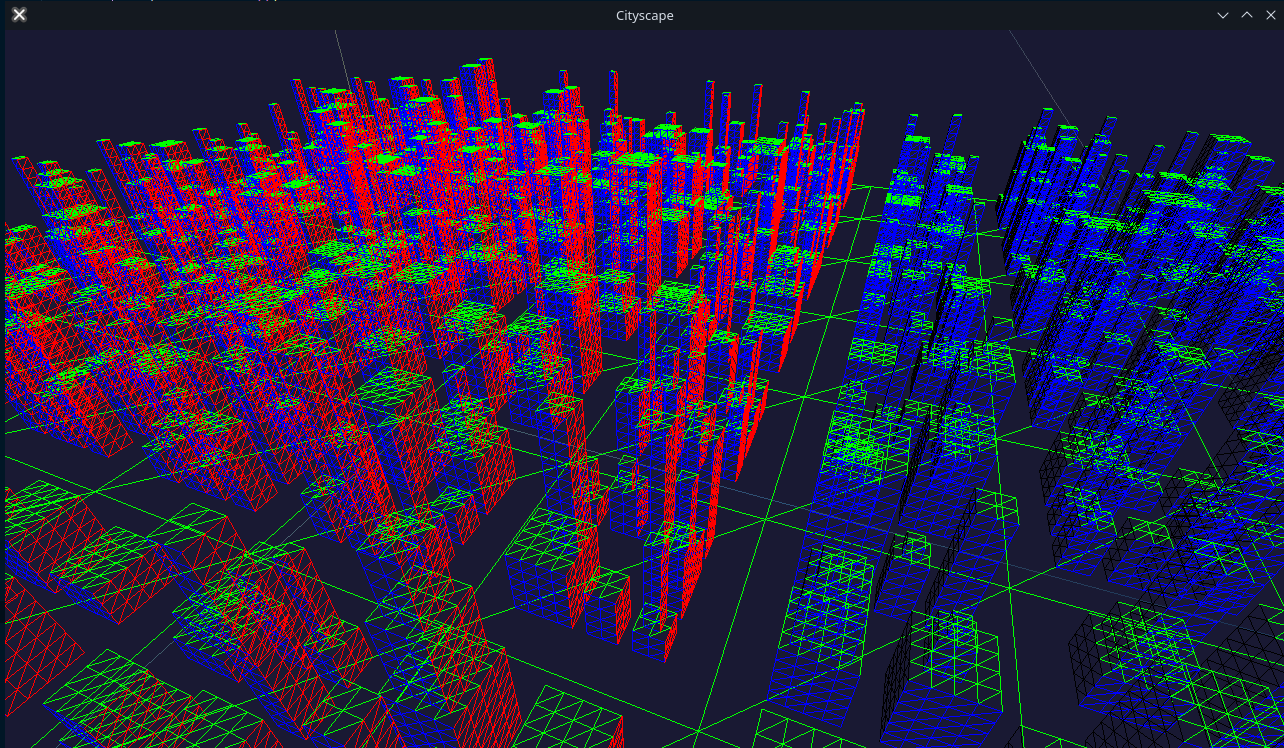
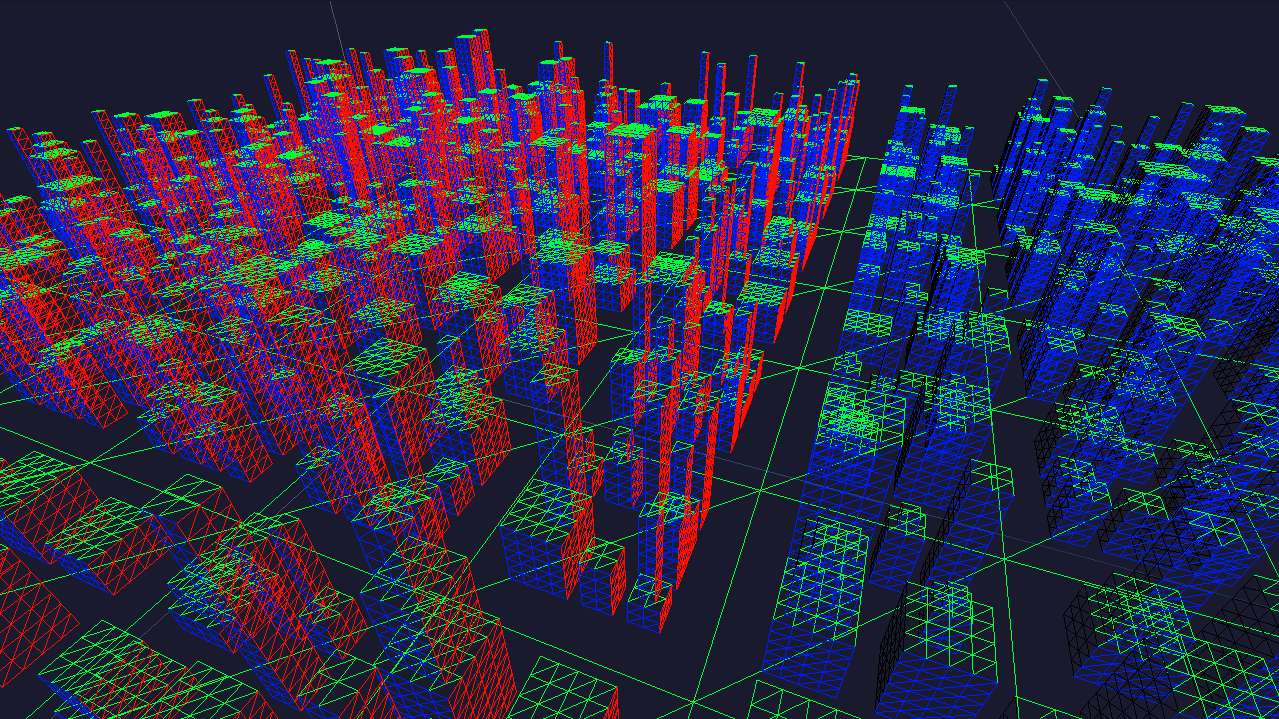
huge readme update + new textures / spec maps

diff --git a/phi/camera.hpp b/phi/camera.hpp
@@ -38,6 +38,8 @@ namespace Phi
 
             // Needs to be public so caller can tell the camera when the window size changes
             void UpdateViewport(int width, int height);
+            void UpdateView();
+            void UpdateProjection();
 
             // Updates the Uniform Buffer Object associated with this camera
             void UpdateUBO();
@@ -49,6 +51,9 @@ namespace Phi
             inline int GetWidth() const { return width; };
             inline int GetHeight() const { return height; };
             inline GPUBuffer& GetUBO() { return ubo; };
+
+            // Public so ImGUI may directly control camera properties
+            float fov = 60;
 
         private:
         
@@ -67,7 +72,6 @@ namespace Phi
             // View properties (Sensible defaults)
             int width = 0;
             int height = 0;
-            float fov = 60;
             float aspect = 1;
             float near = 0.1;
             float far = 1000;
@@ -78,10 +82,6 @@ namespace Phi
 
             // OpenGL resources
             GPUBuffer ubo;
-
-            // Helper methods for updating matrices
-            void UpdateView();
-            void UpdateProjection();
 
             // Constants
             static const int UBO_SIZE = sizeof(glm::mat4) * 3 + sizeof(glm::vec4) * 2;

diff --git a/src/cityscape.cpp b/src/cityscape.cpp
@@ -223,6 +223,7 @@ void Cityscape::Update(float delta)
         if (ImGui::Checkbox("Vsync", &vsync)) glfwSwapInterval(vsync);
         ImGui::Checkbox("Shadows (experimental)", &shadows);
         ImGui::SliderInt("View Distance", &renderDistance, 1, 10, "%d", ImGuiSliderFlags_AlwaysClamp);
+        if (ImGui::SliderFloat("FOV", &mainCamera.fov, 1.0f, 120.0f, "%.2f", ImGuiSliderFlags_AlwaysClamp)) mainCamera.UpdateProjection();
 
         ImGui::End();
 
@@ -234,7 +235,7 @@ void Cityscape::Update(float delta)
 
         ImGui::Checkbox("Automatic Lights", &automaticLights);
         ImGui::Checkbox("Lights Override", &lightsAlwaysOn);
-        ImGui::Checkbox("Party Mode", &partyMode);
+        if (ImGui::Checkbox("Party Mode", &partyMode)) lightsAlwaysOn = partyMode;
         if (ImGui::Checkbox("Festive Colors", &festiveMode))
         {
             // Regenerate all light colors if mode is toggled

diff --git a/README.md b/README.md
@@ -2,6 +2,8 @@
 
 ### D'Anyil Landry
 
+![new_buildings.png](https://github.com/Chestnut45/cityscape/blob/main/new_buildings.png)
+
 ## Prerequisites
 
 - C/C++ Tools VSCode extension
@@ -46,7 +48,7 @@ All of the cityscape source files, including the main.cpp entrypoint and all non
 
 ### phi:
 
-Phi is the micro-engine I've put together for this assignment. I wrote every line, except for the App class, which is basically just an adlib of the W_App class from wolf, but with support for other OpenGL context versions and some basic performance monitoring. It has a few RAII wrapper classes for OpenGL resources (buffer objects, textures, etc.), and a small number of more complex resources like a renderable mesh class and a basic camera. It's by no means complete, but it's a great starting point for my personal projects and I can add more features to it as I encounter the need for them.
+Phi is the micro-engine I put together for this assignment. I wrote it from scratch, except for the App class, which is basically just an adlibbed copy of the W_App class from wolf, but with support for other OpenGL context versions and some basic performance monitoring. It has a few RAII wrapper classes for OpenGL resources (buffer objects, textures, etc.), and a small number of more complex resources like a mesh/model class and a render batch class. It's by no means complete, but it's a great starting point for my personal projects and I can add more features to it as I encounter the need for them :)
 
 ## Extras Chosen:
 
@@ -56,21 +58,25 @@ Roads are just painted onto each ground tile texture. Nothing crazy.
 
 ### Lighting:
 
-Traditional deferred rendering is used due to the large number of lights in the scene.
-
-Light volume proxy geometry is used to only generate fragments for pixels that will actually be affected by each light.
-
-I considered implementing tiled deferred or clustered deferred shading to remove all of the unnecessary extra gBuffer reads per fragment, but it proved too difficult in the timeframe available.
+Traditional deferred rendering is used due to the large number of lights in the scene. I considered implementing tiled deferred or clustered deferred shading to remove all of the extra gBuffer reads per fragment, but it seemed not worth the cost in time to develop.
 
 There are 2 main directional lights (sun + moon), and ~400 point lights (at the default render distance), when the streetlights are on.
 
 Both directional lights and point lights are using the Blinn-Phong model (with the adjusted half way vector).
 
-### Building Shapes:
+Global lighting is run on every fragment generated by a single fullscreen triangle during the global pass, and for point lights, light volume proxy geometry is used to only generate fragments for pixels that will actually be affected by each light.
 
-Each building is generated story by story, face by face. Texture offsets into the building texture atlas are procedurally generated for each face based on constructor arguments and rng, and extra features like awnings and balconies are placed per-face based on what type (window, door, etc.) of face is being generated.
+### Building Generation:
 
-The buildings are drawn using the Phi::RenderBatch class that groups together meshes of matching vertex formats into a single draw call.
+Each building is generated story by story, face by face.
+
+![wireframe_normals.png](https://github.com/Chestnut45/cityscape/blob/main/wireframe_normals.png)
+
+Texture offsets into the building texture atlas are procedurally generated for each face based on variant and wall type arguments, and extra features like awnings are placed per-face based on what type (window, door, etc.) of face is being generated.
+
+A specular map is baked into the alpha channel of the buildingAtlas.png file, so only surfaces that should be shiny are.
+
+The buildings are drawn using the Phi::RenderBatch class to group together meshes of matching vertex formats into a single draw call.
 
 ## Other Considerations:
 
@@ -86,20 +92,16 @@ The sky's skybox colors are blended with both main directional light colors by t
 
 On December 4th, there was a really cool looking snowstorm, and it inspired me to add snow to the cityscape.
 
-- Snow accumulation/melting will only update if `Time Advance` is checked.
-- Snow will only accumulate if `Snow` is also checked
+- Snow will only accumulate if `Snow` is checked
 - Snow will accumulate faster based on the `Intensity` value for the storm.
 - Snow will melt 2x faster during the day.
+- Snow accumulation/melting will only update if `Time Advance` is checked.
 - The snow particle effect consists of 20,000 particles each rasterized as a GL_POINT with a random size.
 - The particles are updated entirely on the GPU, all the CPU does is calculate initial positions once on program startup, and issue a single draw call once per frame.
 
-Immediately after calculating the position offset due to wind and assigning a value to gl_Position and gl_PointSize, the vertex shader applies a constant velocity downward (since snow has a relatively low terminal velocity), and wraps each particle's position back up to the top of the "effect box" that surrounds the camera. After all vertex shader outputs have finished, we simply write back the updated particle position to the same location of the same buffer by binding the buffer object to an indexed SSBO binding point that is accessible to the vertex shader.
+![snowy_night.png](https://github.com/Chestnut45/cityscape/blob/main/snowy_night.png)
 
-Since each snowflake is rendered to the geometry buffer, they will also automatically have the entire scene's lighting applied to them (including shadows!). This is achieved by the vertex shader generating normals for each snowflake that are based on the same noise values used to generate the wind offsets. You should be able to see the effect of this by standing close to the street lights, where some snowflakes may reflect the light from the street light not closest to them. Rationale for this behaviour is that snowflakes would be rotating due to the wind, so the specular reflections could be from *any* nearby light.
-
-(Relevant resources are in data/shaders/snow.[v|f]s)
-
-![snow_loop.GIF](https://github.com/Chestnut45/cityscape/blob/main/snow_loop.GIF)
+## Super Cool Technical Details
 
 ### Persistent Mapped Buffer Streaming
 
@@ -109,13 +111,22 @@ The main caveat with using persistently mapped buffers is that you have to perfo
 
 The main reason for double/triple buffering is to minimize the client sync points. The general method is to write to section A of the buffer, issue commands that read from section A, place a sync on section A, then start writing to section B (while the GPU is still reading from section A). In an ideal world, by the time we send commands to read from the final section and swap back to section A for writing, section A's sync object will already be signaled, so the `Sync()` method will return immediately.
 
+### Snow Effect Shader
+
+Immediately after calculating the position offset due to wind and assigning a value to gl_Position and gl_PointSize, the vertex shader applies a constant velocity downward (since snow has a relatively low terminal velocity), and wraps each particle's position back up to the top of the "effect box" that surrounds the camera. After all vertex shader outputs have finished, we simply write back the updated particle position to the same location of the same buffer by binding the buffer object containing the vertex data to an indexed SSBO binding point that is accessible to the vertex shader.
+
+Since each snowflake is rendered to the geometry buffer, they will also automatically have the entire scene's lighting applied to them (including shadows!). This is achieved by the vertex shader generating normals for each snowflake that are based on the same noise values used to generate the wind offsets. You should be able to see the effect of this by standing close to the street lights, where some snowflakes may reflect the light from the street light not closest to them. Rationale for this behaviour is that snowflakes would be rotating due to the wind, so the specular reflections could be from *any* nearby light.
+
+(Relevant resources: data/shaders/snow.[v|f]s)
+
 ### Automagical VAOs:
 
 A number of internal vertex formats are included that can be used to automatically construct a `VertexAttributes` object (Phi's VAO wrapper class). This is only applicable when you tightly pack your vertices into the buffer you supply to the constructor, but I think the convenience is warranted :)
 
-### Challenges
+## Challenges
 
 There are definitely some things in this assignment that could/should have been done differently. Below is a small outline of some design / implementation challenges I faced along the way.
 
-- ...
 - EnTT is not being used in a way that lets it shine. I originally thought it would be a good fit for separating rendering logic and the different components that make up the city, but the components ended up being almost entirely self contained; not many (if any) entities actually use more than one component. In its current state, the entity registry is mostly being used as a big bucket for anything being simulated, with contiguous views into individual components used for quick and easy sequential access during each render pass.
+- The shadow maps exhibit some significant peter-panning, despite front-face culling during the shadow map generation pass. I'm not sure how to tune for this just yet.
+- The actual cityscape source files are generally worse in terms of organization than Phi, because I spent more time experimenting with different creative ideas within src/, and wanted more single-purpose reusable code for the engine classes.
